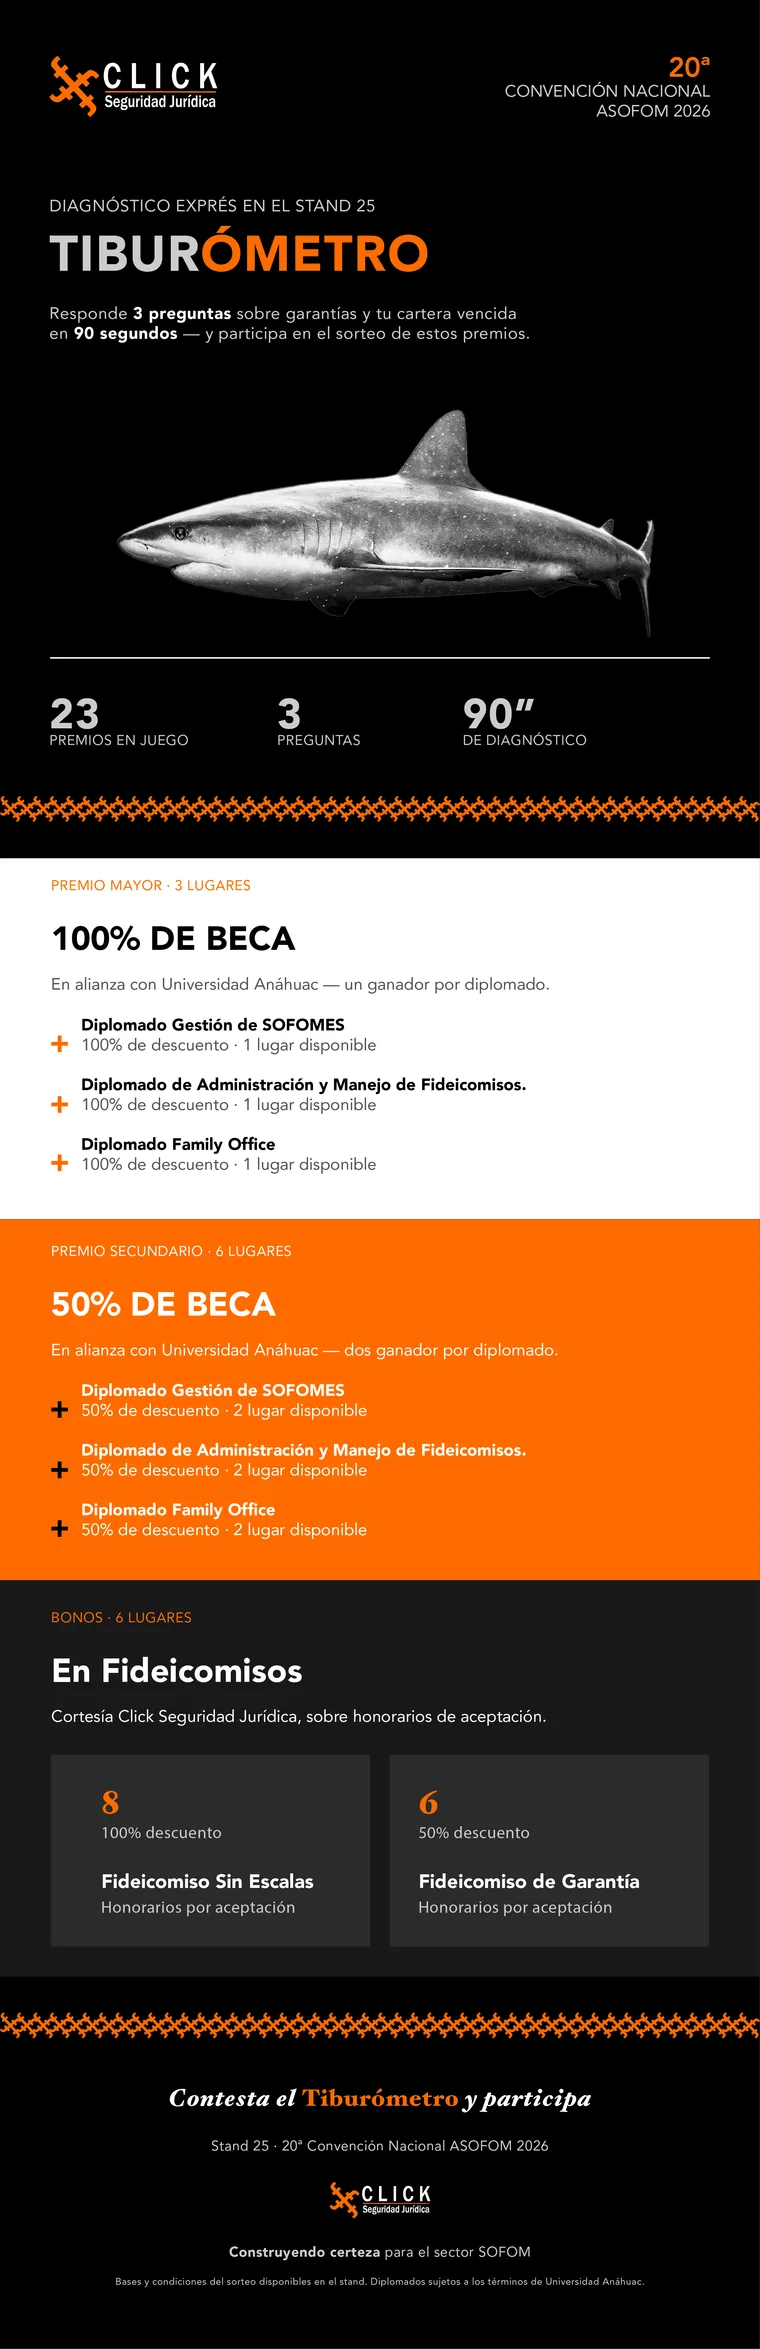
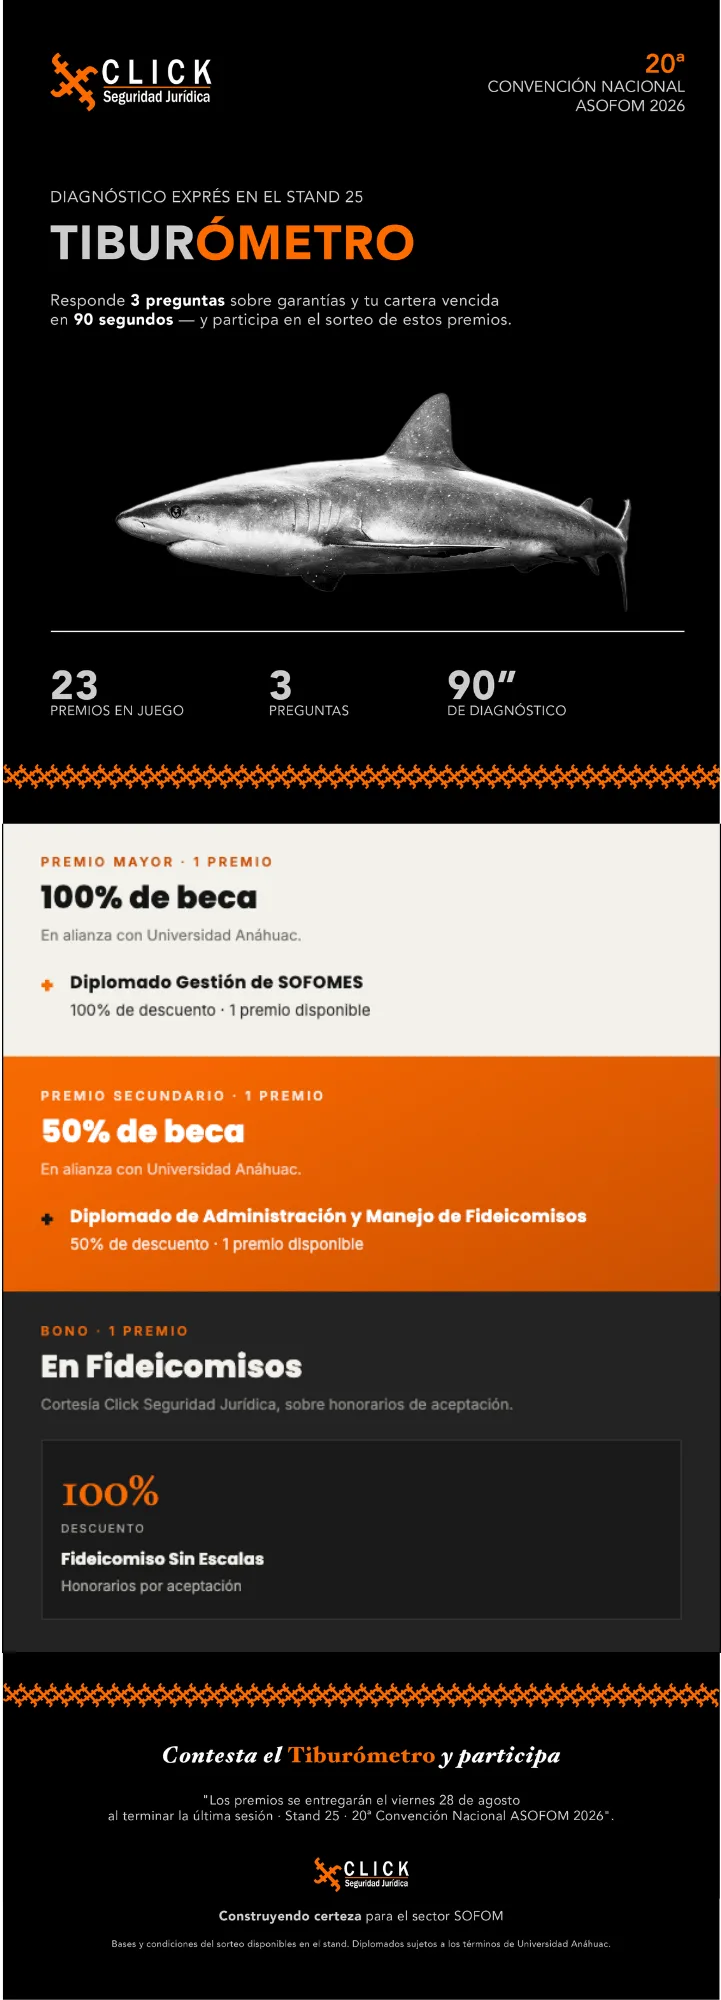
feat(frontend): restaurar el boton de premios con la infografia nueva
Se revierte la retirada del boton y se sustituye el poster por la
version final que entrego diseño hoy.

El buscador del poster en preparar-assets.mjs pasa a tomar el
archivo PNG MAS RECIENTE que contenga "infografia" o "premios" en
el nombre, en vez de exigir un prefijo fijo. El nombre cambia en
cada entrega ("Click - Mailing - Premios", "ASOFOM - Click
Infografia final"), y tener que editar el script cada vez era una
fuente de errores el dia del evento.

El poster nuevo pesa 348 KB y queda en 96 KB.

Se actualizo el texto alternativo de la imagen, que seguia
describiendo los premios de la version anterior, y el rotulo de la
ventana pasa de "23 premios en juego" a "Sorteo del Tiburometro":
la infografia nueva ya no desglosa esa cantidad y dejarlo fijo en
el codigo obligaria a tocarlo cada vez que cambien los premios.

Verificado en el navegador: el boton aparece, la ventana abre, el
poster nuevo carga y se puede desplazar hasta el final.

diff --git a/frontend/src/components/Marco.jsx b/frontend/src/components/Marco.jsx
@@ -20,6 +20,7 @@ function Marco({
   children,
   paso = 0,          // 0 = sin barra; 1..3 = pregunta en curso
   onReiniciar,
+  onVerPremios,
   posicionTiburon,
   tiburonActivo,
   nivel,
@@ -40,17 +41,40 @@ function Marco({
             draggable="false"
           />
 
-          {onReiniciar && (
-            <button
-              type="button"
-              onClick={onReiniciar}
-              className="ml-auto shrink-0 rounded-full border border-abismo-500 px-2.5 py-1.5
-                         font-mono text-[10px] uppercase tracking-[.05em] text-bruma
-                         transition-colors hover:border-bruma hover:text-espuma"
-            >
-              Reiniciar
-            </button>
-          )}
+          <div className="ml-auto flex shrink-0 items-center gap-2">
+            {/*
+              Los premios se pueden consultar en cualquier momento del
+              recorrido: son el motivo por el que alguien decide
+              contestar, y esconderlos hasta el final desperdicia ese
+              gancho. Va en acento porque es la accion opcional que si
+              queremos que se toque.
+            */}
+            {onVerPremios && (
+              <button
+                type="button"
+                onClick={onVerPremios}
+                className="flex items-center gap-1.5 rounded-full border border-click-orange/50
+                           bg-click-orange/10 px-3 py-1.5 font-mono text-[10px] uppercase
+                           tracking-[.05em] text-click-orange transition-colors
+                           hover:bg-click-orange/20"
+              >
+                <span aria-hidden="true">🎁</span>
+                Premios
+              </button>
+            )}
+
+            {onReiniciar && (
+              <button
+                type="button"
+                onClick={onReiniciar}
+                className="rounded-full border border-abismo-500 px-2.5 py-1.5
+                           font-mono text-[10px] uppercase tracking-[.05em] text-bruma
+                           transition-colors hover:border-bruma hover:text-espuma"
+              >
+                Reiniciar
+              </button>
+            )}
+          </div>
         </header>
 
         {/* ─── Avance del cuestionario ─── */}

diff --git a/frontend/src/App.jsx b/frontend/src/App.jsx
@@ -33,10 +33,7 @@ import FormularioCaptura from './components/FormularioCaptura';
 import PantallaResultado from './components/PantallaResultado';
 import PantallaCerrado from './components/PantallaCerrado';
 import PantallaError from './components/PantallaError';
-// components/VentanaPremios.jsx se conserva sin usar: el boton de
-// premios se retiro del encabezado el dia del evento. Al no
-// importarse, ni el componente ni el poster de 124 KB entran al
-// build.
+import VentanaPremios from './components/VentanaPremios';
 
 // ------------------------------------------------------------
 // Clave de localStorage, versionada.
@@ -96,6 +93,7 @@ function App() {
   const [errorInfo, setErrorInfo] = useState(null);
   const [backendCaido, setBackendCaido] = useState(false);
   const [registroCerrado, setRegistroCerrado] = useState(false);
+  const [premiosAbiertos, setPremiosAbiertos] = useState(false);
 
   // ----------------------------------------------------------
   // Sondeo del backend, sin bloquear la interfaz
@@ -368,6 +366,7 @@ function App() {
           ? undefined
           : reiniciar
       }
+      onVerPremios={() => setPremiosAbiertos(true)}
       posicionTiburon={posicionTiburon}
       tiburonActivo={puntaje > 0}
       nivel={mostrandoNivel && nivel ? nivel.clave : null}
@@ -392,6 +391,16 @@ function App() {
       <div key={vistaEfectiva} className="h-full">
         {contenido}
       </div>
+
+      {/*
+        La ventana de premios vive dentro del Marco pero se posiciona
+        fija sobre toda la pantalla, asi que se ve completa aunque el
+        kiosco sea mas chico que el viewport.
+      */}
+      <VentanaPremios
+        abierta={premiosAbiertos}
+        onCerrar={() => setPremiosAbiertos(false)}
+      />
     </Marco>
   );
 }

diff --git a/frontend/src/components/VentanaPremios.jsx b/frontend/src/components/VentanaPremios.jsx
@@ -102,7 +102,7 @@ function VentanaPremios({ abierta, onCerrar }) {
                            border-abismo-600 px-5 py-3.5">
           <div>
             <p className="font-mono text-[10px] uppercase tracking-[.14em] text-click-orange">
-              23 premios en juego
+              Sorteo del Tiburómetro
             </p>
             <h2 className="mt-0.5 font-display text-[17px] font-bold leading-tight">
               Lo que puedes ganar
@@ -125,9 +125,10 @@ function VentanaPremios({ abierta, onCerrar }) {
         <div className="min-h-0 flex-1 overflow-y-auto overscroll-contain">
           <img
             src={posterPremios}
-            alt="Premios del Tiburómetro: 3 becas del 100% y 6 del 50% en diplomados de la
-                 Universidad Anáhuac, 8 bonos de 100% de descuento en Fideicomiso Sin Escalas
-                 y 6 bonos de 50% en Fideicomiso de Garantía."
+            alt="Premios del Tiburómetro: beca del 100% en el Diplomado Gestión de SOFOMES,
+                 beca del 50% en el Diplomado de Administración y Manejo de Fideicomisos, ambas
+                 en alianza con la Universidad Anáhuac, y un bono del 100% de descuento sobre
+                 honorarios de aceptación en Fideicomiso Sin Escalas."
             className="w-full select-none"
             draggable="false"
           />
